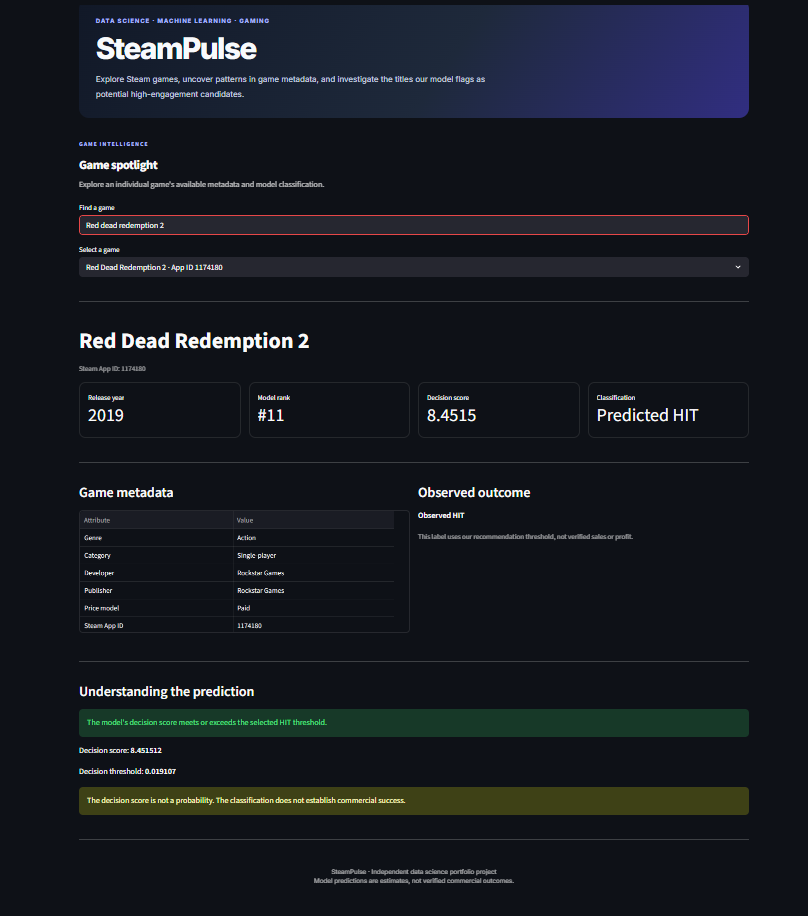
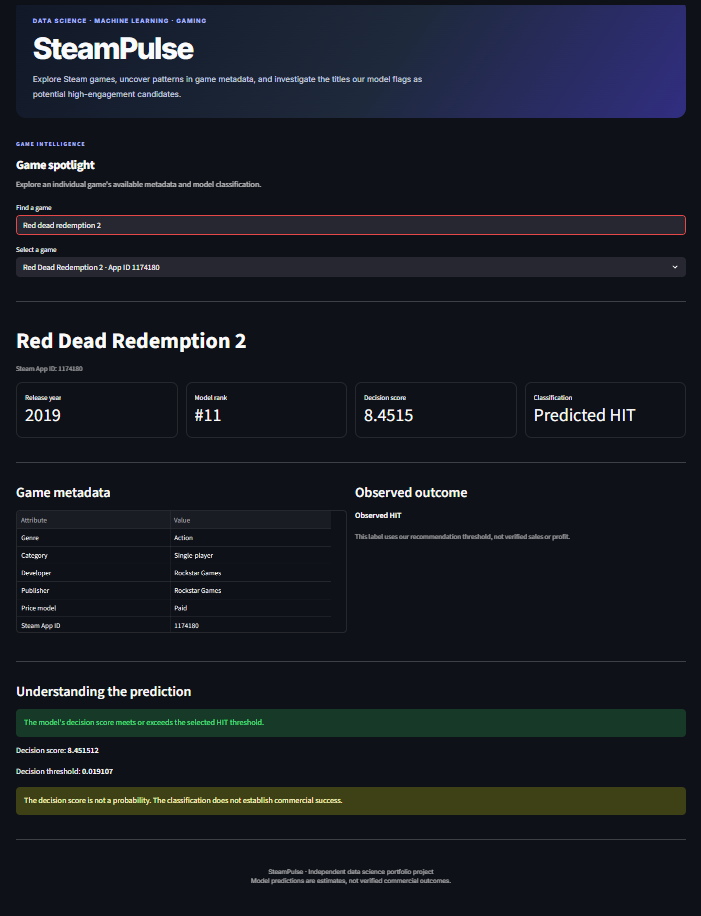
update

diff --git a/README.md b/README.md
@@ -13,15 +13,15 @@ SteamPulse is an interactive Streamlit Steam game analytics application.
 
 Explore catalogue statistics, the distribution of model classifications, release year patterns, and the highest ranked games.
 
-[SteamPulse Overview](Images/Overview.png)
-
+![SteamPulse Overview](Images/Overview.png)
 
 ### Explore Catalogue
 
 Search games by title or Steam App ID. Filter by genre, category, price model, release year, and model classification. Sort the results and download filtered records as a CSV file.
 
 
-[SteamPulse Catalogue](Images/Catalogue.png)
+![SteamPulse Catalogue](Images/Catalogue.png)
+
 
 
 ###  Game Spotlight
